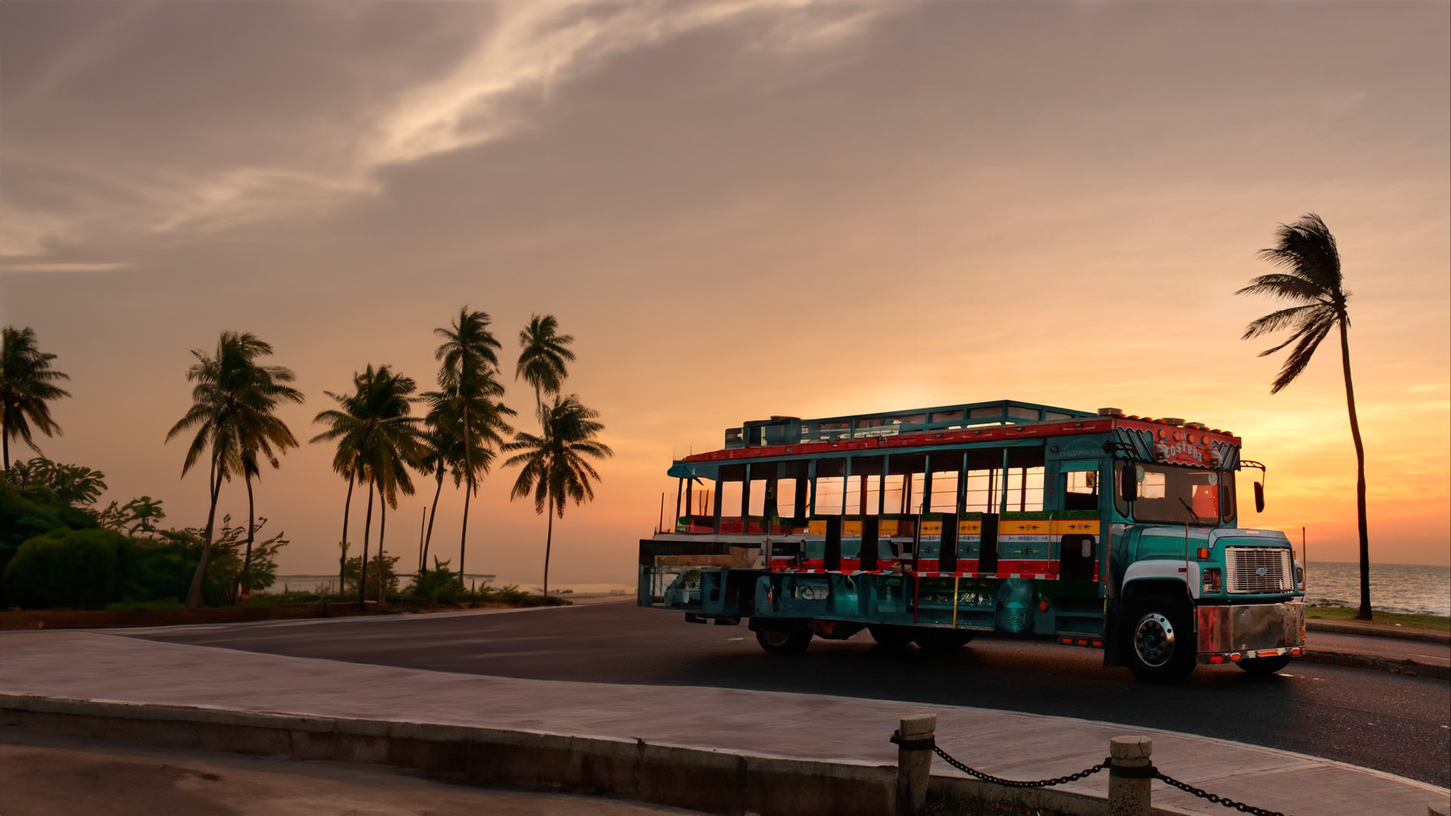
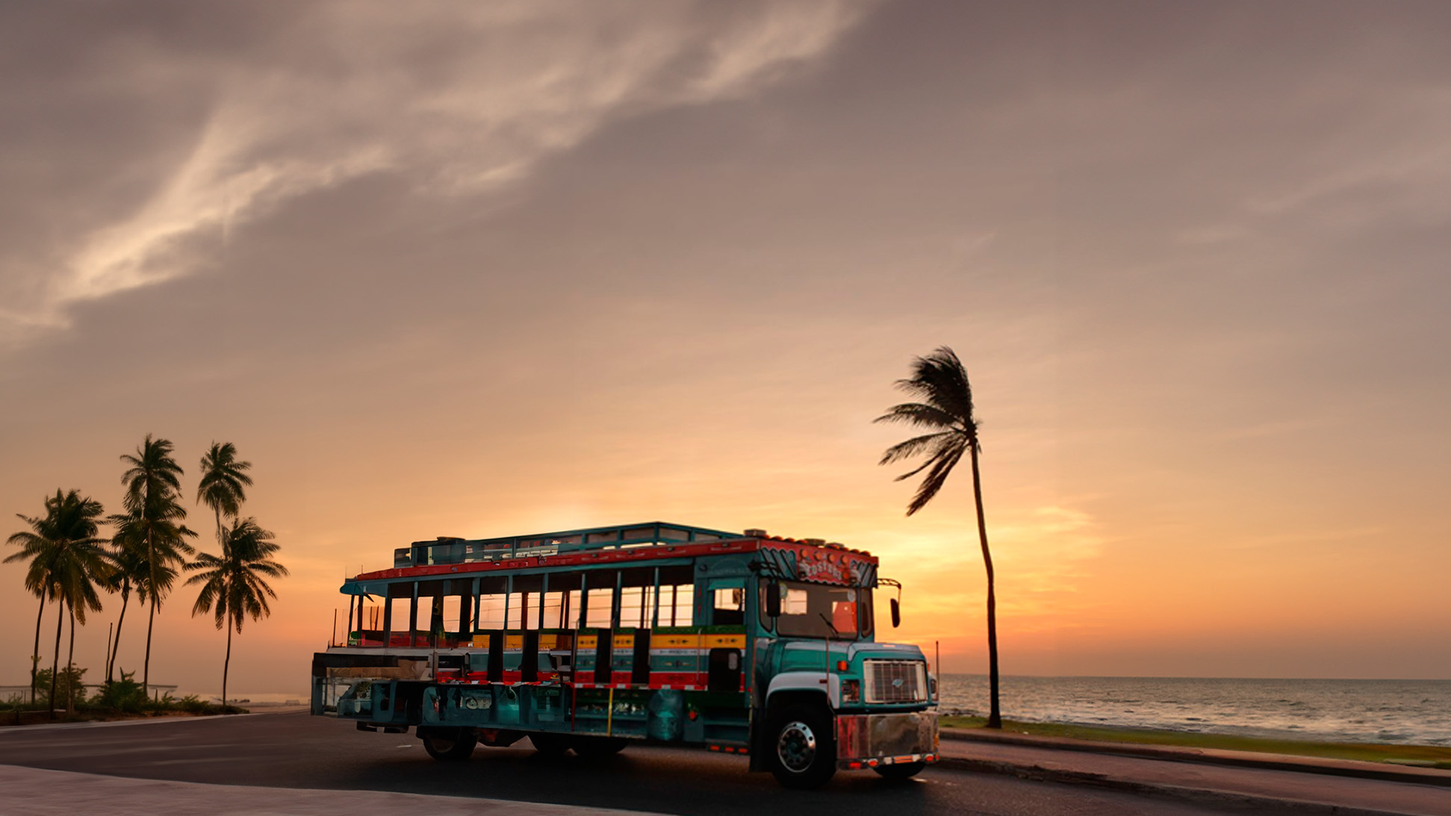
Se actualiza la foto de inicio para que se ajuste tanto al formato smartphone como al computador

diff --git a/css/styles.min.css b/css/styles.min.css
@@ -253,7 +253,7 @@ section .header{
     position:relative
 }*/
 
-.tooltip{position:absolute;z-index:1070;display:block;font-family:"Helvetica Neue",Helvetica,Arial,sans-serif;font-size:12px;font-weight:normal;line-height:1.4;visibility:visible;filter:alpha(opacity=0);opacity:0}.tooltip.in{filter:alpha(opacity=90);opacity:.9}.tooltip.top{padding:5px 0;margin-top:-3px}.tooltip.right{padding:0 5px;margin-left:3px}.tooltip.bottom{padding:5px 0;margin-top:3px}.tooltip.left{padding:0 5px;margin-left:-3px}.tooltip-inner{max-width:200px;padding:3px 8px;color:#fff;text-align:center;text-decoration:none;text-transform:capitalize;background-color:#000;border-radius:4px}.pulse2{animation-name:pulse2;animation-duration:1s;animation-iteration-count:infinite;animation-timing-function:linear}@keyframes pulse2{0%{transform:scale(1.1)}50%{transform:scale(0.8)}100%{transform:scale(1)}}.floating-arrow{animation-name:floating-arrow;animation-duration:2s;animation-iteration-count:infinite;animation-timing-function:ease-in-out}@keyframes floating-arrow{from{transform:translate(-50%, 0)}65%{transform:translate(-50%, 15px)}to{transform:translate(-50%, 0)}}.floating-logo{animation-name:floating-logo;animation-duration:2s;animation-iteration-count:infinite;animation-timing-function:ease-in-out}@keyframes floating-logo{from{transform:translate(-50%, 0)}50%{transform:translate(-50%, 10px)}to{transform:translate(-50%, 0)}}.wp1,.wp2,.wp3,.wp4,.wp5,.wp6,.wp7,.wp8,.wp9{visibility:hidden}.wp8,.wp9{-webkit-animation-delay:.3s;animation-delay:.3s}.bounceInLeft,.bounceInRight,.fadeInUp,.fadeInUpDelay,.fadeInDown,.fadeInUpD,.fadeInLeft,.fadeInRight,.bounceInDown{visibility:visible}.header-nav.open{visibility:visible;opacity:.9;-webkit-transition:opacity .5s;transition:opacity .5s}.nav-toggle{position:absolute;top:0;right:15px;z-index:999999;padding:10px 35px 16px 0;cursor:pointer}.nav-toggle:focus{outline:none}.nav-toggle span,.nav-toggle span:before,.nav-toggle span:after{content:"";position:absolute;display:block;width:35px;height:3px;-moz-border-radius:1px;-webkit-border-radius:1px;border-radius:1px;background:#000000;cursor:pointer}.nav-toggle span:before{top:-10px}.nav-toggle span:after{bottom:-10px}.nav-toggle span,.nav-toggle span:before,.nav-toggle span:after{-moz-transition:all 300ms ease-in-out;-o-transition:all 300ms ease-in-out;-webkit-transition:all 300ms ease-in-out;transition:all 300ms ease-in-out}.nav-toggle.active span{background-color:rgba(0,0,0,0)}.nav-toggle.active span:before,.nav-toggle.active span:after{top:0}.nav-toggle.active span:before{-moz-transform:rotate(45deg);-ms-transform:rotate(45deg);-o-transform:rotate(45deg);-webkit-transform:rotate(45deg);transform:rotate(45deg)}.nav-toggle.active span:after{top:10px;-moz-transform:translatey(-10px) rotate(-45deg);-ms-transform:translatey(-10px) rotate(-45deg);-o-transform:translatey(-10px) rotate(-45deg);-webkit-transform:translatey(-10px) rotate(-45deg);transform:translatey(-10px) rotate(-45deg)}.navicon{position:absolute;height:26px;right:10px;top:48px;visibility:hidden;transition:all 300ms ease-in-out}.hero{min-height:750px; background:url("../img/hero-min.jpg") center center;-webkit-background-size:cover;-moz-background-size:cover;-o-background-size:cover;background-size:cover;position:relative}.hero .down-arrow a{color:#fff}.hero h1{color:#fff;margin-bottom:50px}.hero p.intro{color:#fff;font-size:20px;font-weight:300;margin-bottom:80px}.hero .hero-content{padding-top:18%}.hero .hero-content img{width:20%;margin-bottom:0%}.navigation{transition:all 300ms ease-in-out;position:fixed;width:100%;z-index:999}.fixed{position:fixed;background-color:rgba(244,242,236,.88);z-index:999;width:100%}header{padding:4rem 0;border-bottom:solid 1px rgba(255,255,255,.2);position:relative;width:1200px;margin:0 auto;transition:padding 300ms ease-in-out; height: 40px;}header a{color:#fff;text-transform:uppercase;font-size:13px}header a.login{margin-right:20px}header .logo{display:inline-block}header .logo img{height:25px}header ul.primary-nav{margin:0 0 0 20px;padding:0; height: 20px;}header ul.primary-nav li{display:inline;}header ul.primary-nav li a{color:#000000;padding-right:0}header ul.primary-nav li a:hover{color:#e8ca6f}header ul.primary-nav li:last-child a{padding-right:0px}header ul.member-actions li{display:inline}header ul.member-actions li a{color:#000000}header ul.member-actions li a:hover{color:#e8ca6f}header .header-nav{display:inline-block}header .member-actions{position:absolute;left:93%;top:30px;transition:all 300ms ease-in-out}.down-arrow{color:#fff;font-size:30px;position:absolute;bottom:30px;left:50%;transform:translateX(-50%)}.share-bar{margin-top:20px}.intro span.icon{font-size:40px;color:#e8ca6f;font-weight:bold}.intro-icon{display:inline-block;vertical-align:top;padding:6px 0 0 0;margin-right:20px;width:40px}.intro-content{display:inline-block;width:80%}#intro{padding-top:40px}#intro img{width:100%;height:auto}#intro p{text-align:center}.features{position:relative}.features p{margin-bottom:0;padding-bottom:0}.features h3{margin:0 0 20px 0}.features span.icon{font-size:35px;color:#e8ca6f;font-weight:bold}.features .feature-icon{display:inline-block;vertical-align:top;padding:6px 0 0 0;margin-right:20px;width:35px}.features .feature-content{display:inline-block;width:75%}.features .intro-icon{display:inline-block;vertical-align:top;padding:6px 0 0 0;margin-right:20px}.features .intro-content{display:inline-block;width:80%}.features ul.features-stack{margin-top:50px}.features ul.features-stack li{margin-top:20px;padding-bottom:20px;border-bottom:solid 1px #e6e9ea}.features ul.features-stack li:last-child{padding-bottom:0px;border-bottom:none}.features .ipad-wrap{width:706px;height:1002px;background:url("../img/ipad-device.png") no-repeat center center;z-index:1}.features .iphone-wrap{width:304px;height:620px;background:url("../img/iphone6.png") no-repeat center center;position:absolute;left:530px;bottom:129px;z-index:2}.features .device-showcase{position:absolute;bottom:-365px;right:61%}.features .responsive-feature-img,.features-extra .responsive-feature-img{display:none}.devices{position:relative}.features-extra{position:relative;z-index:3}.features-extra .btn{margin-top:20px}.features-extra .macbook-wrap{position:absolute;width:916px;height:540px;background:url("../img/macbook-pro.png") no-repeat center center;top:114px;z-index:4;left:50%}.hero-strip{margin-top:120px;background:#333844 url("../img/polygonal-bg.jpg") no-repeat center center;padding-bottom:190px;position:relative}.hero-strip i{font-family:"Nunito",sans-serif;font-weight:300;font-size:25px;color:#f69d52;vertical-align:top;margin-left:-8px;font-style:normal}.hero-strip h2{color:#fff;margin:0 0 20px 0}.hero-strip p{color:#acb1b4}.hero-strip .btn{margin-top:10px}.hero-strip .logo-placeholder{width:230px;height:230px;position:absolute;bottom:-285px;left:50%;transform:translateX(-50%)}.events .leftcol{padding-right:100px;border-right:solid 1px #e6e9ea}.events .rightcol{padding-left:100px}.events .time{font-size:13px;font-style:italic;text-transform:lowercase;color:rgba(28,54,83,.6)}.blog{padding-bottom:120px}.blog img{width:100%;height:auto;-moz-transition:all 300ms ease-in-out;-o-transition:all 300ms ease-in-out;-webkit-transition:all 300ms ease-in-out;transition:all 300ms ease-in-out}.blog h2{font-size:11px;color:#acb1b4;font-weight:500;text-transform:uppercase;margin-top:35px}.blog .btn{margin-top:20px}.blog .blog-img-wrap{position:relative;overflow:hidden}.blog .blog-img-wrap .overlay{position:absolute;width:100%;height:100%;background-color:rgba(255,255,255,.5);-moz-transition:all 300ms ease-in-out;-o-transition:all 300ms ease-in-out;-webkit-transition:all 300ms ease-in-out;transition:all 300ms ease-in-out;-ms-filter:"progid:DXImageTransform.Microsoft.Alpha(Opacity=0)";filter:alpha(opacity=0);opacity:0}.blog .blog-img-wrap i{color:#fff;font-size:20px;position:absolute;width:20px;height:20px;top:25px;right:35px}.blog .blog-img-wrap:hover img,.blog .blog-img-wrap:focus img{-moz-transform:scale(1.1);-ms-transform:scale(1.1);-o-transform:scale(1.1);-webkit-transform:scale(1.1);transform:scale(1.1)}.blog .blog-img-wrap:hover .overlay,.blog .blog-img-wrap:focus .overlay{-ms-filter:"progid:DXImageTransform.Microsoft.Alpha(Opacity=1)";filter:alpha(opacity=1);opacity:1;z-index:9}.blog figcaption i{margin-left:5px;font-size:15px}.blog figcaption a.blog-post-title{color:rgba(28,54,83,.6)}.blog figcaption a.blog-post-title:hover,.blog figcaption a.blog-post-title:focus{color:#3d4351}#instagram img{width:100%}#eng-pics img{width:100%;height:auto;-moz-transition:all 300ms ease-in-out;-o-transition:all 300ms ease-in-out;-webkit-transition:all 300ms ease-in-out;transition:all 300ms ease-in-out}#eng-pics .img-wrap{position:relative;overflow:hidden;border-radius:4px}#eng-pics .img-wrap .overlay{position:absolute;width:100%;height:100%;background-color:rgba(255,255,255,.5);-moz-transition:all 300ms ease-in-out;-o-transition:all 300ms ease-in-out;-webkit-transition:all 300ms ease-in-out;transition:all 300ms ease-in-out;-ms-filter:"progid:DXImageTransform.Microsoft.Alpha(Opacity=0)";filter:alpha(opacity=0);opacity:0}#eng-pics .img-wrap i{color:#fff;font-size:15px;position:absolute;width:15px;height:15px;top:6px;right:6px}#eng-pics .img-wrap:hover img,#eng-pics .img-wrap:focus img{-moz-transform:scale(1.1);-ms-transform:scale(1.1);-o-transform:scale(1.1);-webkit-transform:scale(1.1);transform:scale(1.1)}#eng-pics .img-wrap:hover .overlay,#eng-pics .img-wrap:focus .overlay{-ms-filter:"progid:DXImageTransform.Microsoft.Alpha(Opacity=1)";filter:alpha(opacity=1);opacity:1;z-index:9}#eng-pics .diamond{width:230px;height:230px;position:absolute;bottom:-145px;left:50%;transform:translateX(-50%);z-index:500}#eng-pics .ring{width:75px;height:75px;border-radius:75px;border:10px solid #d0d3d4;position:absolute;left:34%;top:75%;z-index:-1}#video-bg{height:400px; padding-bottom: 100px;}#video-content{width:100%;height:100%;padding-top:100px;position:relative;background:rgba(17,17,17,.5);text-align:center}#video-content h5{color:#fff;font-size:30px;font-weight:300;letter-spacing:10px}#video-content p{color:#fff}#map-canvas{height:500px;width:100%}#map-content-wrapper{position:relative;margin-top:-502px;margin-bottom:150px}#map-content{margin-top:40px;padding:50px 60px;background:#fff;-webkit-transition:opacity .5s,visibility .6s,margin-top .5s;transition:opacity .5s,visibility .6s,margin-top .5s}#btn-show-content{padding:20px;background:#fff;cursor:pointer;display:inline-block;-webkit-transition:opacity .5s,visibility .6s,margin-top .5s;transition:opacity .5s,visibility .6s,margin-top .5s}.toggle-map-content{opacity:0;visibility:hidden}.pointer-events-none{pointer-events:none}.pointer-events-auto{pointer-events:auto}.rsvp{padding-bottom:140px}.rsvp .rsvp-form .rsvp-btn{padding:15px 0;border-radius:3px;width:100%;font-size:13px}.rsvp .rsvp-form .form-input-group{width:100%;height:55px;margin:0 auto 10px;-moz-border-radius:5px;-webkit-border-radius:5px;border-radius:5px;border:solid 1px #e6e9ea;text-align:left;position:relative}.rsvp .rsvp-form .form-input-group i{color:#e8ca6f;font-size:14px}.rsvp .rsvp-form .form-input-group i:after{content:"";height:30px;width:1px;border-right:solid 1px #e6e9ea;position:absolute;top:50%;left:30px;transform:translateY(-50%)}.rsvp .rsvp-form .form-input-group i.fa-user,.rsvp .rsvp-form .form-input-group i.fa-users,.rsvp .rsvp-form .form-input-group i.fa-envelope,.rsvp .rsvp-form .form-input-group .fa-key{font-size:14px;position:absolute;top:50%;transform:translateY(-50%);margin-left:20px}.rsvp .rsvp-form .form-input-group input{padding-left:68px;width:100%;height:100%;-moz-border-radius:6px;-webkit-border-radius:6px;border-radius:6px;border:none}.rsvp .rsvp-form .form-input-group input::-webkit-input-placeholder{color:#bcc1c3}.rsvp .rsvp-form .form-input-group input:-moz-placeholder{color:#bcc1c3}.rsvp .rsvp-form .form-input-group input::-moz-placeholder{color:#bcc1c3}.rsvp .rsvp-form .form-input-group input:-ms-input-placeholder{color:#bcc1c3}footer .content{border-top:1px solid #e6e9ea;padding-bottom:20px}footer .to-top-wrapper{font-size:30px;display:block;cursor:pointer;margin:-25px auto 50px;border-radius:50%;width:50px;height:50px;border:1px solid #e6e9ea;background:#fff}footer .to-top-wrapper .to-top{display:block;-webkit-transition:all .3s ease-in-out;-moz-transition:all .3s ease-in-out;-ms-transition:all .3s ease-in-out;-o-transition:all .3s ease-in-out;transition:all .3s ease-in-out}footer .to-top-wrapper .to-top:hover{margin-top:-5px}footer span.fa-heart{color:#ff415c;font-size:18px;margin:0 2px}body.modal-open{padding-right:0 !important}.modal-body{padding:25px}
+.tooltip{position:absolute;z-index:1070;display:block;font-family:"Helvetica Neue",Helvetica,Arial,sans-serif;font-size:12px;font-weight:normal;line-height:1.4;visibility:visible;filter:alpha(opacity=0);opacity:0}.tooltip.in{filter:alpha(opacity=90);opacity:.9}.tooltip.top{padding:5px 0;margin-top:-3px}.tooltip.right{padding:0 5px;margin-left:3px}.tooltip.bottom{padding:5px 0;margin-top:3px}.tooltip.left{padding:0 5px;margin-left:-3px}.tooltip-inner{max-width:200px;padding:3px 8px;color:#fff;text-align:center;text-decoration:none;text-transform:capitalize;background-color:#000;border-radius:4px}.pulse2{animation-name:pulse2;animation-duration:1s;animation-iteration-count:infinite;animation-timing-function:linear}@keyframes pulse2{0%{transform:scale(1.1)}50%{transform:scale(0.8)}100%{transform:scale(1)}}.floating-arrow{animation-name:floating-arrow;animation-duration:2s;animation-iteration-count:infinite;animation-timing-function:ease-in-out}@keyframes floating-arrow{from{transform:translate(-50%, 0)}65%{transform:translate(-50%, 15px)}to{transform:translate(-50%, 0)}}.floating-logo{animation-name:floating-logo;animation-duration:2s;animation-iteration-count:infinite;animation-timing-function:ease-in-out}@keyframes floating-logo{from{transform:translate(-50%, 0)}50%{transform:translate(-50%, 10px)}to{transform:translate(-50%, 0)}}.wp1,.wp2,.wp3,.wp4,.wp5,.wp6,.wp7,.wp8,.wp9{visibility:hidden}.wp8,.wp9{-webkit-animation-delay:.3s;animation-delay:.3s}.bounceInLeft,.bounceInRight,.fadeInUp,.fadeInUpDelay,.fadeInDown,.fadeInUpD,.fadeInLeft,.fadeInRight,.bounceInDown{visibility:visible}.header-nav.open{visibility:visible;opacity:.9;-webkit-transition:opacity .5s;transition:opacity .5s}.nav-toggle{position:absolute;top:0;right:15px;z-index:999999;padding:10px 35px 16px 0;cursor:pointer}.nav-toggle:focus{outline:none}.nav-toggle span,.nav-toggle span:before,.nav-toggle span:after{content:"";position:absolute;display:block;width:35px;height:3px;-moz-border-radius:1px;-webkit-border-radius:1px;border-radius:1px;background:#000000;cursor:pointer}.nav-toggle span:before{top:-10px}.nav-toggle span:after{bottom:-10px}.nav-toggle span,.nav-toggle span:before,.nav-toggle span:after{-moz-transition:all 300ms ease-in-out;-o-transition:all 300ms ease-in-out;-webkit-transition:all 300ms ease-in-out;transition:all 300ms ease-in-out}.nav-toggle.active span{background-color:rgba(0,0,0,0)}.nav-toggle.active span:before,.nav-toggle.active span:after{top:0}.nav-toggle.active span:before{-moz-transform:rotate(45deg);-ms-transform:rotate(45deg);-o-transform:rotate(45deg);-webkit-transform:rotate(45deg);transform:rotate(45deg)}.nav-toggle.active span:after{top:10px;-moz-transform:translatey(-10px) rotate(-45deg);-ms-transform:translatey(-10px) rotate(-45deg);-o-transform:translatey(-10px) rotate(-45deg);-webkit-transform:translatey(-10px) rotate(-45deg);transform:translatey(-10px) rotate(-45deg)}.navicon{position:absolute;height:26px;right:10px;top:48px;visibility:hidden;transition:all 300ms ease-in-out}.hero{min-height:800px; background:url("../img/hero-min.jpg") center center;-webkit-background-size:cover;-moz-background-size:cover;-o-background-size:cover;background-size:cover;position:relative}.hero .down-arrow a{color:#fff}.hero h1{color:#fff;margin-bottom:50px}.hero p.intro{color:#fff;font-size:20px;font-weight:300;margin-bottom:80px}.hero .hero-content{padding-top:18%}.hero .hero-content img{width:20%;margin-bottom:0%}.navigation{transition:all 300ms ease-in-out;position:fixed;width:100%;z-index:999}.fixed{position:fixed;background-color:rgba(244,242,236,.88);z-index:999;width:100%}header{padding:4rem 0;border-bottom:solid 1px rgba(255,255,255,.2);position:relative;width:1200px;margin:0 auto;transition:padding 300ms ease-in-out; height: 40px;}header a{color:#fff;text-transform:uppercase;font-size:13px}header a.login{margin-right:20px}header .logo{display:inline-block}header .logo img{height:25px}header ul.primary-nav{margin:0 0 0 20px;padding:0; height: 20px;}header ul.primary-nav li{display:inline;}header ul.primary-nav li a{color:#000000;padding-right:0}header ul.primary-nav li a:hover{color:#e8ca6f}header ul.primary-nav li:last-child a{padding-right:0px}header ul.member-actions li{display:inline}header ul.member-actions li a{color:#000000}header ul.member-actions li a:hover{color:#e8ca6f}header .header-nav{display:inline-block}header .member-actions{position:absolute;left:93%;top:30px;transition:all 300ms ease-in-out}.down-arrow{color:#fff;font-size:30px;position:absolute;bottom:30px;left:50%;transform:translateX(-50%)}.share-bar{margin-top:20px}.intro span.icon{font-size:40px;color:#e8ca6f;font-weight:bold}.intro-icon{display:inline-block;vertical-align:top;padding:6px 0 0 0;margin-right:20px;width:40px}.intro-content{display:inline-block;width:80%}#intro{padding-top:40px}#intro img{width:100%;height:auto}#intro p{text-align:center}.features{position:relative}.features p{margin-bottom:0;padding-bottom:0}.features h3{margin:0 0 20px 0}.features span.icon{font-size:35px;color:#e8ca6f;font-weight:bold}.features .feature-icon{display:inline-block;vertical-align:top;padding:6px 0 0 0;margin-right:20px;width:35px}.features .feature-content{display:inline-block;width:75%}.features .intro-icon{display:inline-block;vertical-align:top;padding:6px 0 0 0;margin-right:20px}.features .intro-content{display:inline-block;width:80%}.features ul.features-stack{margin-top:50px}.features ul.features-stack li{margin-top:20px;padding-bottom:20px;border-bottom:solid 1px #e6e9ea}.features ul.features-stack li:last-child{padding-bottom:0px;border-bottom:none}.features .ipad-wrap{width:706px;height:1002px;background:url("../img/ipad-device.png") no-repeat center center;z-index:1}.features .iphone-wrap{width:304px;height:620px;background:url("../img/iphone6.png") no-repeat center center;position:absolute;left:530px;bottom:129px;z-index:2}.features .device-showcase{position:absolute;bottom:-365px;right:61%}.features .responsive-feature-img,.features-extra .responsive-feature-img{display:none}.devices{position:relative}.features-extra{position:relative;z-index:3}.features-extra .btn{margin-top:20px}.features-extra .macbook-wrap{position:absolute;width:916px;height:540px;background:url("../img/macbook-pro.png") no-repeat center center;top:114px;z-index:4;left:50%}.hero-strip{margin-top:120px;background:#333844 url("../img/polygonal-bg.jpg") no-repeat center center;padding-bottom:190px;position:relative}.hero-strip i{font-family:"Nunito",sans-serif;font-weight:300;font-size:25px;color:#f69d52;vertical-align:top;margin-left:-8px;font-style:normal}.hero-strip h2{color:#fff;margin:0 0 20px 0}.hero-strip p{color:#acb1b4}.hero-strip .btn{margin-top:10px}.hero-strip .logo-placeholder{width:230px;height:230px;position:absolute;bottom:-285px;left:50%;transform:translateX(-50%)}.events .leftcol{padding-right:100px;border-right:solid 1px #e6e9ea}.events .rightcol{padding-left:100px}.events .time{font-size:13px;font-style:italic;text-transform:lowercase;color:rgba(28,54,83,.6)}.blog{padding-bottom:120px}.blog img{width:100%;height:auto;-moz-transition:all 300ms ease-in-out;-o-transition:all 300ms ease-in-out;-webkit-transition:all 300ms ease-in-out;transition:all 300ms ease-in-out}.blog h2{font-size:11px;color:#acb1b4;font-weight:500;text-transform:uppercase;margin-top:35px}.blog .btn{margin-top:20px}.blog .blog-img-wrap{position:relative;overflow:hidden}.blog .blog-img-wrap .overlay{position:absolute;width:100%;height:100%;background-color:rgba(255,255,255,.5);-moz-transition:all 300ms ease-in-out;-o-transition:all 300ms ease-in-out;-webkit-transition:all 300ms ease-in-out;transition:all 300ms ease-in-out;-ms-filter:"progid:DXImageTransform.Microsoft.Alpha(Opacity=0)";filter:alpha(opacity=0);opacity:0}.blog .blog-img-wrap i{color:#fff;font-size:20px;position:absolute;width:20px;height:20px;top:25px;right:35px}.blog .blog-img-wrap:hover img,.blog .blog-img-wrap:focus img{-moz-transform:scale(1.1);-ms-transform:scale(1.1);-o-transform:scale(1.1);-webkit-transform:scale(1.1);transform:scale(1.1)}.blog .blog-img-wrap:hover .overlay,.blog .blog-img-wrap:focus .overlay{-ms-filter:"progid:DXImageTransform.Microsoft.Alpha(Opacity=1)";filter:alpha(opacity=1);opacity:1;z-index:9}.blog figcaption i{margin-left:5px;font-size:15px}.blog figcaption a.blog-post-title{color:rgba(28,54,83,.6)}.blog figcaption a.blog-post-title:hover,.blog figcaption a.blog-post-title:focus{color:#3d4351}#instagram img{width:100%}#eng-pics img{width:100%;height:auto;-moz-transition:all 300ms ease-in-out;-o-transition:all 300ms ease-in-out;-webkit-transition:all 300ms ease-in-out;transition:all 300ms ease-in-out}#eng-pics .img-wrap{position:relative;overflow:hidden;border-radius:4px}#eng-pics .img-wrap .overlay{position:absolute;width:100%;height:100%;background-color:rgba(255,255,255,.5);-moz-transition:all 300ms ease-in-out;-o-transition:all 300ms ease-in-out;-webkit-transition:all 300ms ease-in-out;transition:all 300ms ease-in-out;-ms-filter:"progid:DXImageTransform.Microsoft.Alpha(Opacity=0)";filter:alpha(opacity=0);opacity:0}#eng-pics .img-wrap i{color:#fff;font-size:15px;position:absolute;width:15px;height:15px;top:6px;right:6px}#eng-pics .img-wrap:hover img,#eng-pics .img-wrap:focus img{-moz-transform:scale(1.1);-ms-transform:scale(1.1);-o-transform:scale(1.1);-webkit-transform:scale(1.1);transform:scale(1.1)}#eng-pics .img-wrap:hover .overlay,#eng-pics .img-wrap:focus .overlay{-ms-filter:"progid:DXImageTransform.Microsoft.Alpha(Opacity=1)";filter:alpha(opacity=1);opacity:1;z-index:9}#eng-pics .diamond{width:230px;height:230px;position:absolute;bottom:-145px;left:50%;transform:translateX(-50%);z-index:500}#eng-pics .ring{width:75px;height:75px;border-radius:75px;border:10px solid #d0d3d4;position:absolute;left:34%;top:75%;z-index:-1}#video-bg{height:400px; padding-bottom: 100px;}#video-content{width:100%;height:100%;padding-top:100px;position:relative;background:rgba(17,17,17,.5);text-align:center}#video-content h5{color:#fff;font-size:30px;font-weight:300;letter-spacing:10px}#video-content p{color:#fff}#map-canvas{height:500px;width:100%}#map-content-wrapper{position:relative;margin-top:-502px;margin-bottom:150px}#map-content{margin-top:40px;padding:50px 60px;background:#fff;-webkit-transition:opacity .5s,visibility .6s,margin-top .5s;transition:opacity .5s,visibility .6s,margin-top .5s}#btn-show-content{padding:20px;background:#fff;cursor:pointer;display:inline-block;-webkit-transition:opacity .5s,visibility .6s,margin-top .5s;transition:opacity .5s,visibility .6s,margin-top .5s}.toggle-map-content{opacity:0;visibility:hidden}.pointer-events-none{pointer-events:none}.pointer-events-auto{pointer-events:auto}.rsvp{padding-bottom:140px}.rsvp .rsvp-form .rsvp-btn{padding:15px 0;border-radius:3px;width:100%;font-size:13px}.rsvp .rsvp-form .form-input-group{width:100%;height:55px;margin:0 auto 10px;-moz-border-radius:5px;-webkit-border-radius:5px;border-radius:5px;border:solid 1px #e6e9ea;text-align:left;position:relative}.rsvp .rsvp-form .form-input-group i{color:#e8ca6f;font-size:14px}.rsvp .rsvp-form .form-input-group i:after{content:"";height:30px;width:1px;border-right:solid 1px #e6e9ea;position:absolute;top:50%;left:30px;transform:translateY(-50%)}.rsvp .rsvp-form .form-input-group i.fa-user,.rsvp .rsvp-form .form-input-group i.fa-users,.rsvp .rsvp-form .form-input-group i.fa-envelope,.rsvp .rsvp-form .form-input-group .fa-key{font-size:14px;position:absolute;top:50%;transform:translateY(-50%);margin-left:20px}.rsvp .rsvp-form .form-input-group input{padding-left:68px;width:100%;height:100%;-moz-border-radius:6px;-webkit-border-radius:6px;border-radius:6px;border:none}.rsvp .rsvp-form .form-input-group input::-webkit-input-placeholder{color:#bcc1c3}.rsvp .rsvp-form .form-input-group input:-moz-placeholder{color:#bcc1c3}.rsvp .rsvp-form .form-input-group input::-moz-placeholder{color:#bcc1c3}.rsvp .rsvp-form .form-input-group input:-ms-input-placeholder{color:#bcc1c3}footer .content{border-top:1px solid #e6e9ea;padding-bottom:20px}footer .to-top-wrapper{font-size:30px;display:block;cursor:pointer;margin:-25px auto 50px;border-radius:50%;width:50px;height:50px;border:1px solid #e6e9ea;background:#fff}footer .to-top-wrapper .to-top{display:block;-webkit-transition:all .3s ease-in-out;-moz-transition:all .3s ease-in-out;-ms-transition:all .3s ease-in-out;-o-transition:all .3s ease-in-out;transition:all .3s ease-in-out}footer .to-top-wrapper .to-top:hover{margin-top:-5px}footer span.fa-heart{color:#ff415c;font-size:18px;margin:0 2px}body.modal-open{padding-right:0 !important}.modal-body{padding:25px}
 
 .leftcol {
     border-bottom: #000 1px;
@@ -319,8 +319,13 @@ hr {
     border-width: 1px;
 }
 
+.flags_img {
+    display: block;
+    cursor: pointer;
+}
+
 .video-yt {
-    padding-bottom: 70rem;
+    padding-bottom: 55%;
 }
 
 .question {

diff --git a/index.html b/index.html
@@ -82,9 +82,9 @@
                             <li class="vl"><a href="#ThingsToDo" data-section="menu" data-value="item4"> Things to Do</a></li>
                             <li class="vl"><a href="#eng-pics" data-section="menu" data-value="item5"> Gallery</a></li>  
                             <li class="vl"><a href="#FAQS" data-section="menu" data-value="item6"> FAQS</a></li>
-                            <li class="vl"><a href="#video-bg" data-section="menu" data-value="item7"> Registry</a></li>                         
+                            <!--<li class="vl"><a href="#video-bg" data-section="menu" data-value="item7"> Registry</a></li>                         
                             <li class="vl"><a href="#video-bg" data-section="menu" data-value="item8"> Transport Information</a></li>
-                            <li class="special"><a href="#rsvp" class="" data-section="menu" data-value="item9">RSVP</a></li>
+                            <li class="special"><a href="#rsvp" class="" data-section="menu" data-value="item9">RSVP</a></li>-->
                         </ul>
                         
                         <ul class="member-actions">                
@@ -133,8 +133,8 @@
     <div class="container">
         <div class="row">
             <div class="col-md-12 text-center">
-                <h3>We are getting married</h3>
-                <p>The date is 05<sup>th</sup> of april 2025 and we would like you to be a part of it.</p>
+                <h3 data-section="intro" data-value="text1">We are getting married</h3>
+                <p data-section="intro" data-value="text2">The date is 05<sup>th</sup> of april 2025 and we would like you to be a part of it.</p>
                 <!--<div class="share-bar"></div>-->
             </div>
         </div>
@@ -968,7 +968,7 @@
     </div>
 </section>-->
 
-<section class="section-padding video-yt">
+<section class="intro section-padding video-yt">
     <br><br><br><br> 
     <div class="col-md-12 text-center hidden-xs" id="video-container">
         <iframe width="1080" height="560" src="https://www.youtube.com/embed/xqB16u6BYdE?si=5pBApi_hnlywWTyH" title="YouTube video player" frameborder="0" allow="accelerometer; autoplay; clipboard-write; encrypted-media; gyroscope; picture-in-picture; web-share" referrerpolicy="strict-origin-when-cross-origin" allowfullscreen></iframe>

diff --git a/css/queries.css b/css/queries.css
@@ -76,7 +76,7 @@
 
     header nav {
         position: relative;
-        top: 45%;
+        top: 55%;
         -moz-transform: translatey(-45%);
         -ms-transform: translatey(-45%);
         -o-transform: translatey(-45%);
